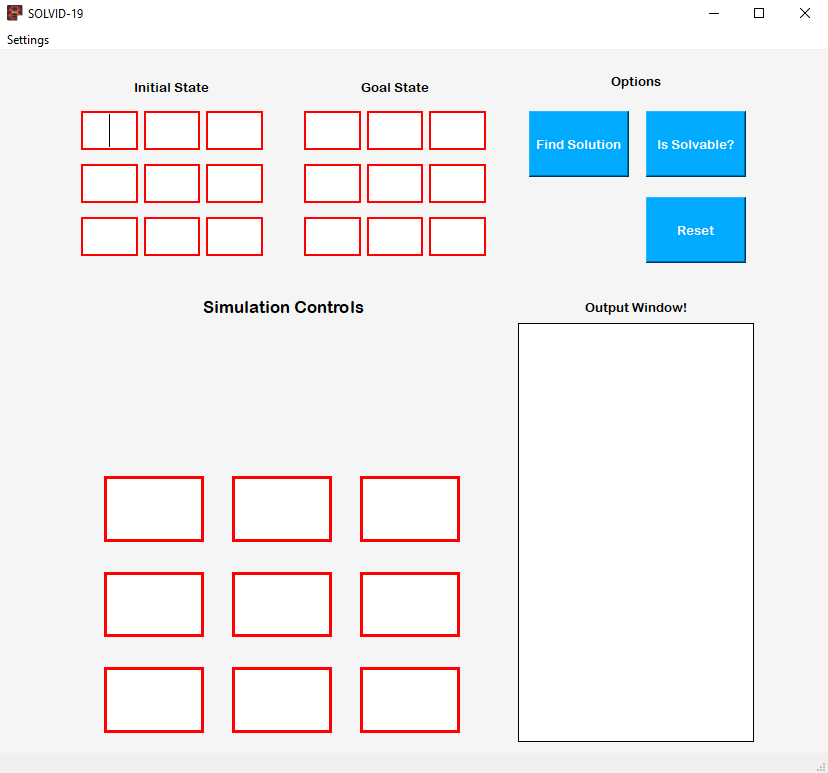
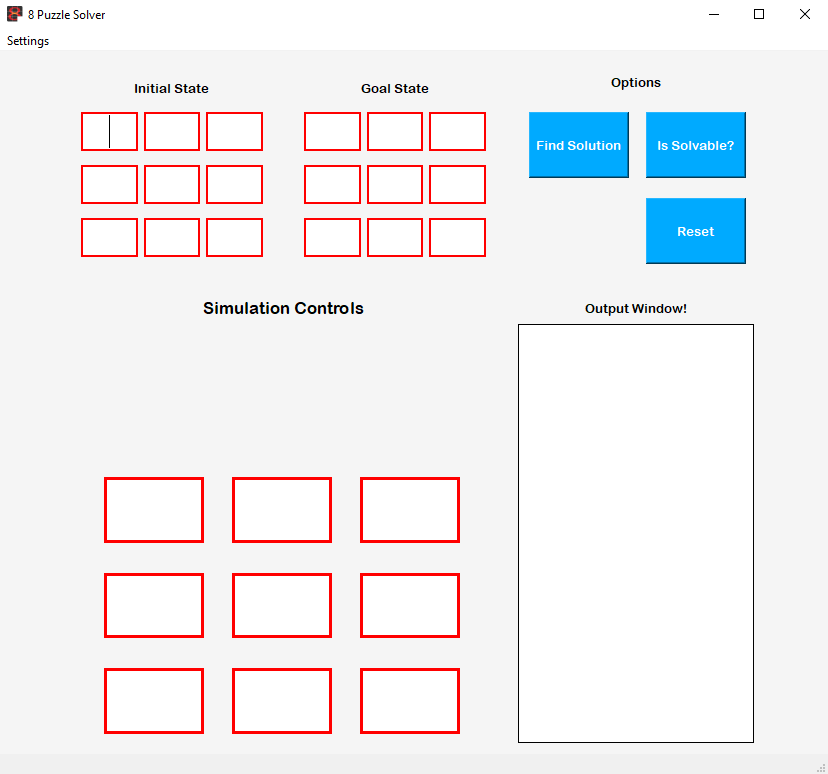
docs: Readme.md
Update:
   - Add welcome screen updated file

diff --git a/ui/gui.py b/ui/gui.py
@@ -1151,7 +1151,7 @@ class Ui_MainWindow(object):
 
     def retranslateUi(self) -> None:
         _translate = QtCore.QCoreApplication.translate
-        self.main_window.setWindowTitle(_translate("MainWindow", "SOLVID-19"))
+        self.main_window.setWindowTitle(_translate("MainWindow", "8 Puzzle Solver"))
         self.goalLabel.setText(_translate("MainWindow", "Goal State"))
         self.toggleManualButton.setText(_translate("MainWindow", "Switch between states Manually"))
         self.nextButton.setText(_translate("MainWindow", "Next"))
